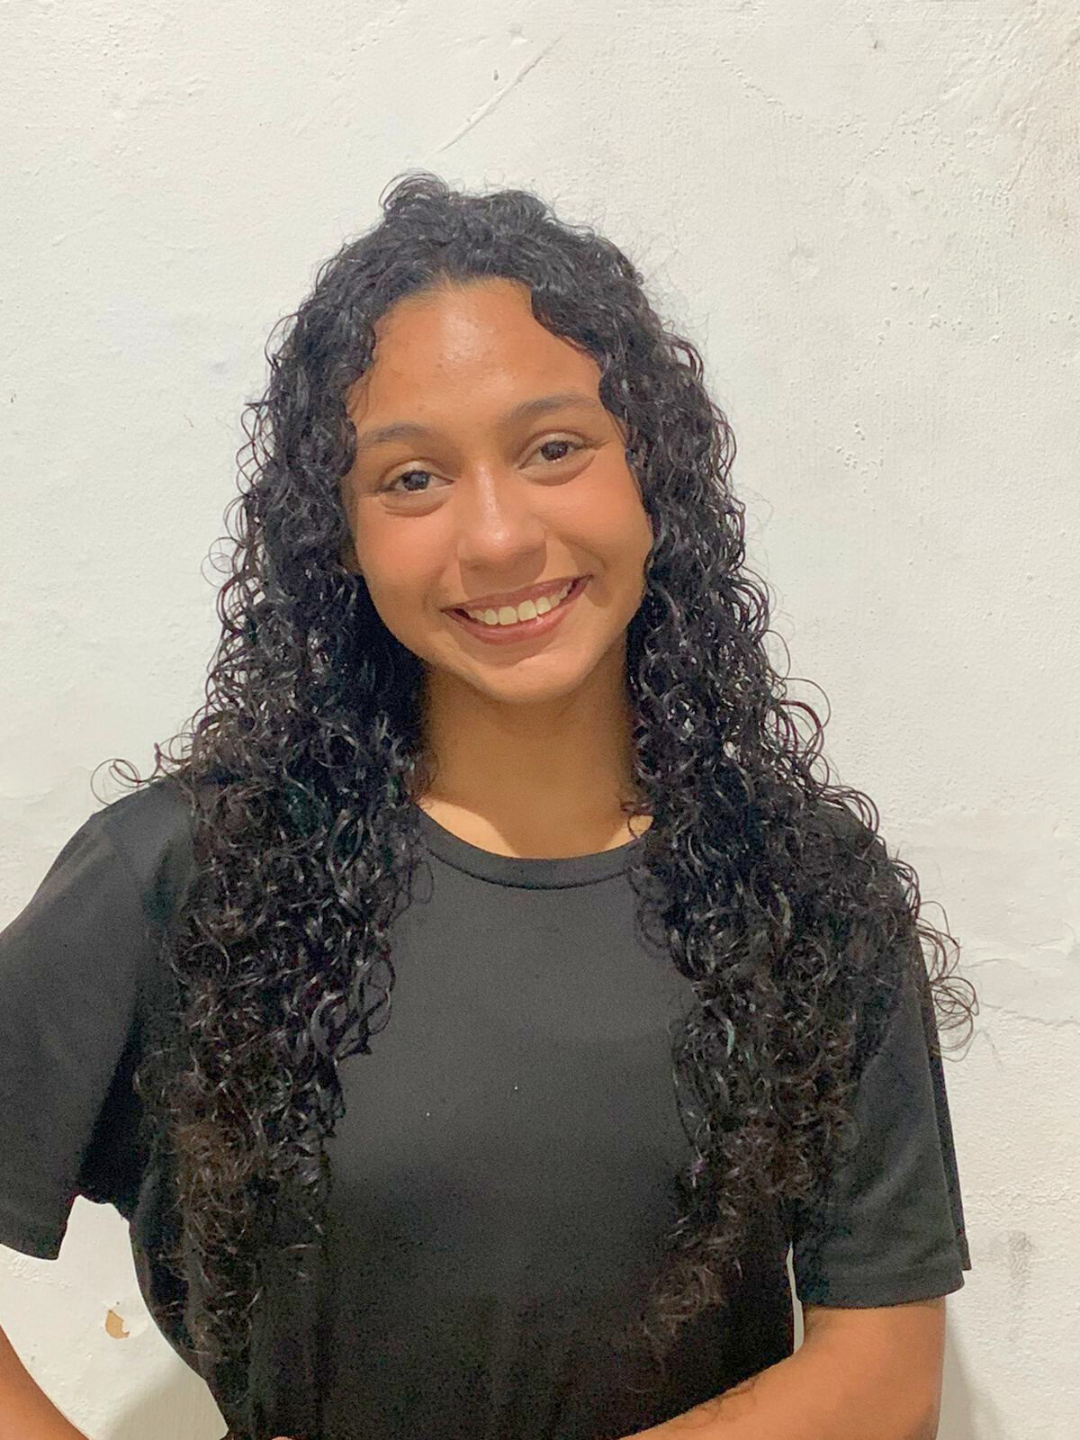
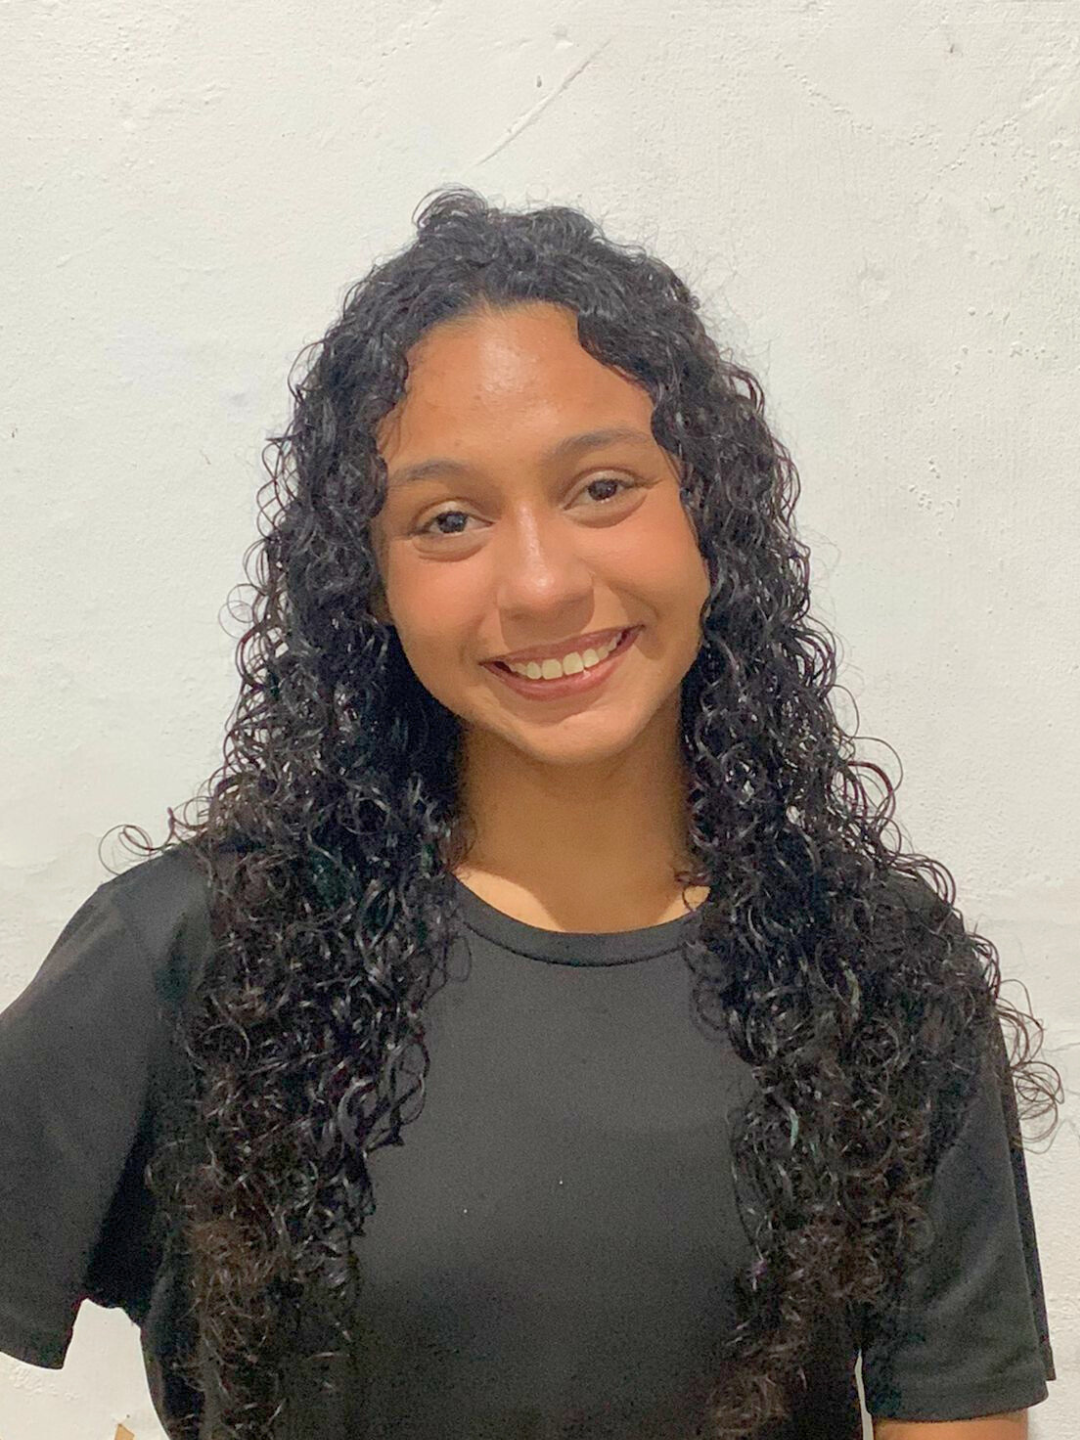
feat: Ficha Técnica

diff --git a/src/app/(site)/page.tsx b/src/app/(site)/page.tsx
@@ -452,14 +452,7 @@ export default function Home() {
         </div>
       </Section> */}
 
-      {/* <Section
-        id="ficha"
-        title="Ficha Técnica"
-        bgColor="bg-green-900"
-        textColor="text-lemon-yellow-100"
-      >
 
-      </Section> */}
 
       <Section
         id="apoio"
@@ -510,6 +503,30 @@ export default function Home() {
         >
           Patrocínio
         </h2> */}
+      </Section>
+
+      <Section
+        id="ficha"
+        title="Ficha Técnica"
+        bgColor="bg-green-900"
+        textColor="text-lemon-yellow-100"
+      >
+        <div className="flex flex-col gap-0 max-w-3xl max-md:max-w-full">
+          <p><span className="font-bold text-lg">Realização:</span> Escola de Dança Yaline Sabóia</p>
+          <p><span className="font-bold text-lg">Direção Geral:</span> Yaline Sabóia</p>
+          <p><span className="font-bold text-lg">Direção Musical:</span> Luana Gabriel</p>
+          <p><span className="font-bold text-lg">Direção Teatral:</span> Yaline Sabóia e David Barbosa</p>
+          <p><span className="font-bold text-lg">Atores: </span> Ana Ruth, Arthur Valdez, Bruna Tayná, Deanira Sabóia, Isadora Brasil, Isaque Ferreira, Kátia Lemos, Leon Cavalcante, Leonardo Reis, Lia Nara, Luís Eduardo, Matheus Macedo, Natália Vasconcelos, Naylica Xavier, Paulo André Reis, Roberta Santos</p>
+          <p><span className="font-bold text-lg">Coreógrafos:</span> Yaline Sabóia, Deanira Sabóia, Jonas Jorge, Giovana E Jamyle</p>
+          <p><span className="font-bold text-lg">Figurinos:</span> Meu Bem Dancing, Natália Vasconcelos, Zeneida</p>
+          {/* <p><span className="font-bold text-lg">Cenografia:</span> </p> */}
+          <p><span className="font-bold text-lg">Iluminação:</span> Jorge Brasil</p>
+          <p><span className="font-bold text-lg">Maquiagem:</span> Natália Vasconcelos, Ana Ruth</p>
+          <p><span className="font-bold text-lg">Mídias Sociais:</span> Ana Lívia, Rikelme Pereira, Ana Letícia Reis, Ana Ruth Ramos, Jacó Martins, Pedro Yuri e Cauan Victor</p>
+          <p><span className="font-bold text-lg">Marketing:</span> Ana Letícia Reis e Ana Ruth Ramos</p>
+          <p><span className="font-bold text-lg">Site:</span> Jacó Martins e Letícia Reis</p>
+          {/* <p><span className="font-bold text-lg">Patrocinadores: </span> </p> */}
+        </div>
       </Section>
     </main >
   );

diff --git a/src/components/Footer.tsx b/src/components/Footer.tsx
@@ -106,6 +106,13 @@ export default function Footer() {
                                 >
                                     Apoio
                                 </a>
+                                <a
+                                    className="font-light underline leading-tight"
+                                    href="#ficha"
+                                    onClick={handleAnchorClick}
+                                >
+                                    Ficha Técnica
+                                </a>
                                 {/* <a
                                     className="font-light underline leading-tight"
                                     href="/programa"

diff --git a/src/components/Header.tsx b/src/components/Header.tsx
@@ -87,6 +87,13 @@ export default function Header() {
                 >
                     Apoio
                 </a>
+                <a 
+                    className="text-nowrap"
+                    href="#ficha"
+                    onClick={handleAnchorClick}
+                >
+                    Ficha Técnica
+                </a>
                 {/* <a 
                     className="text-nowrap"
                     href="/programa"
